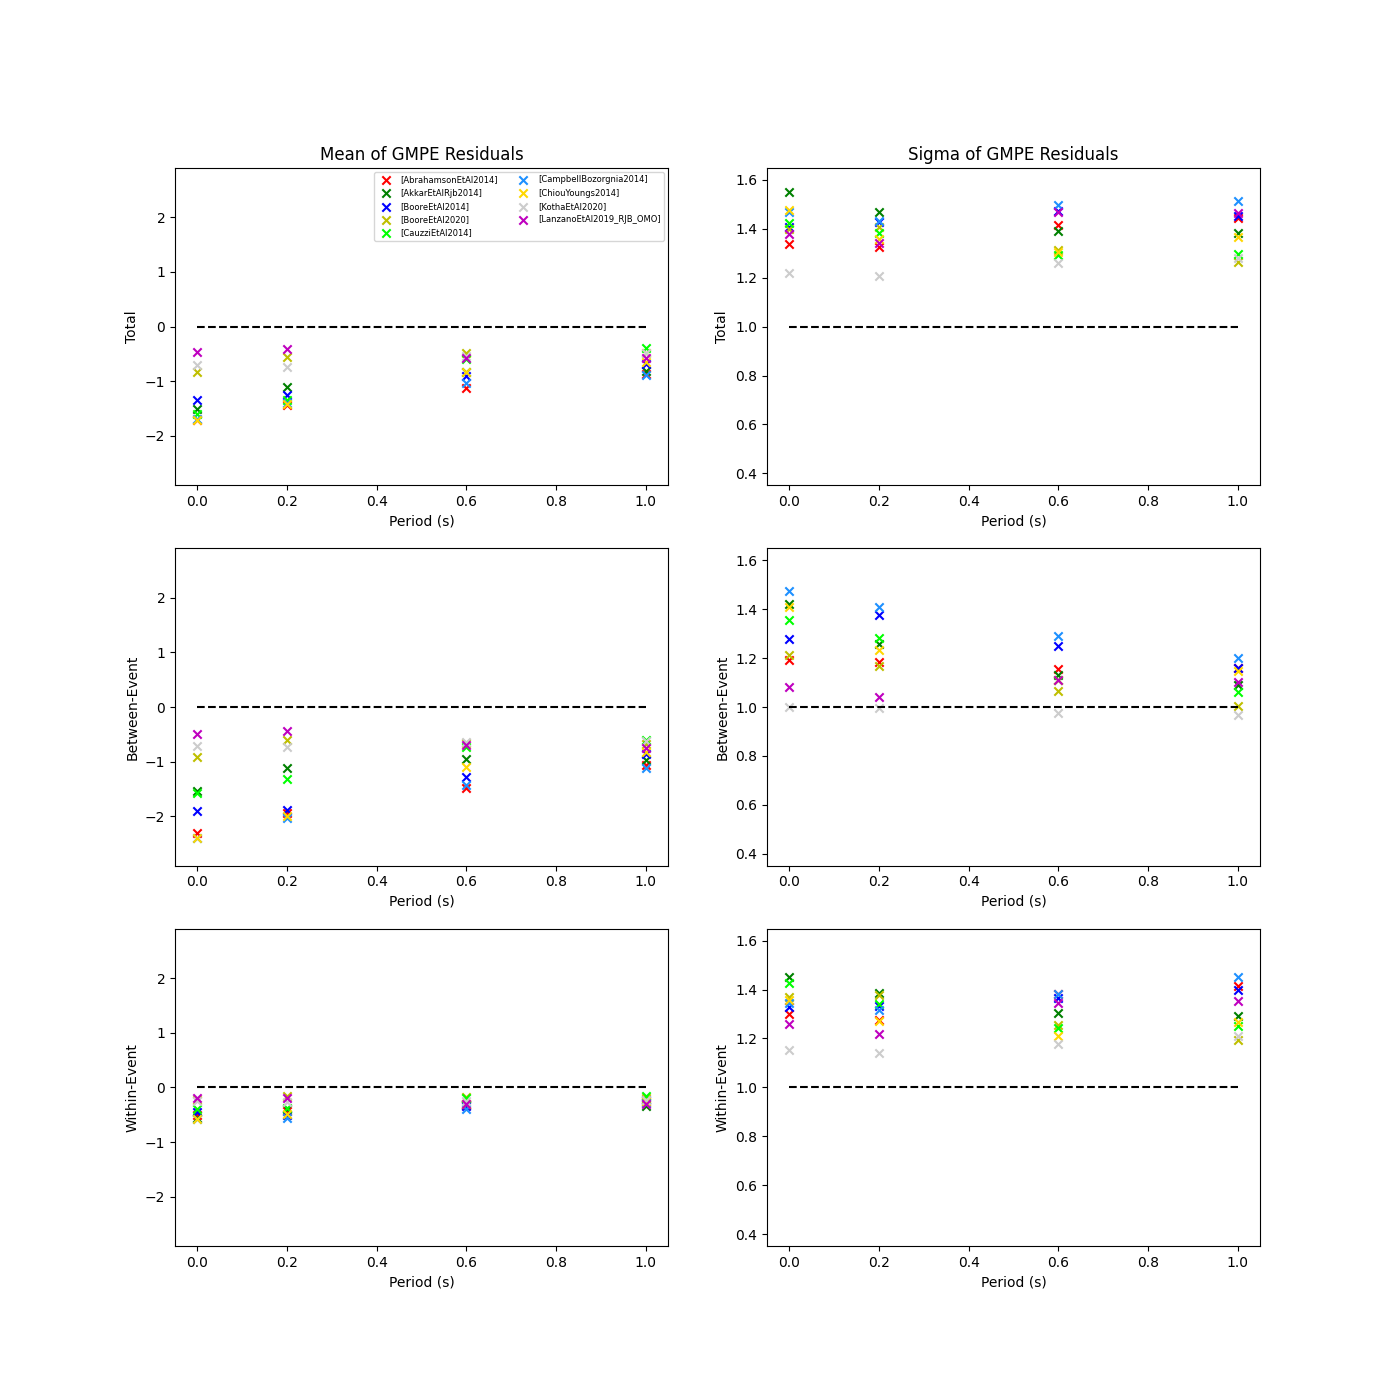
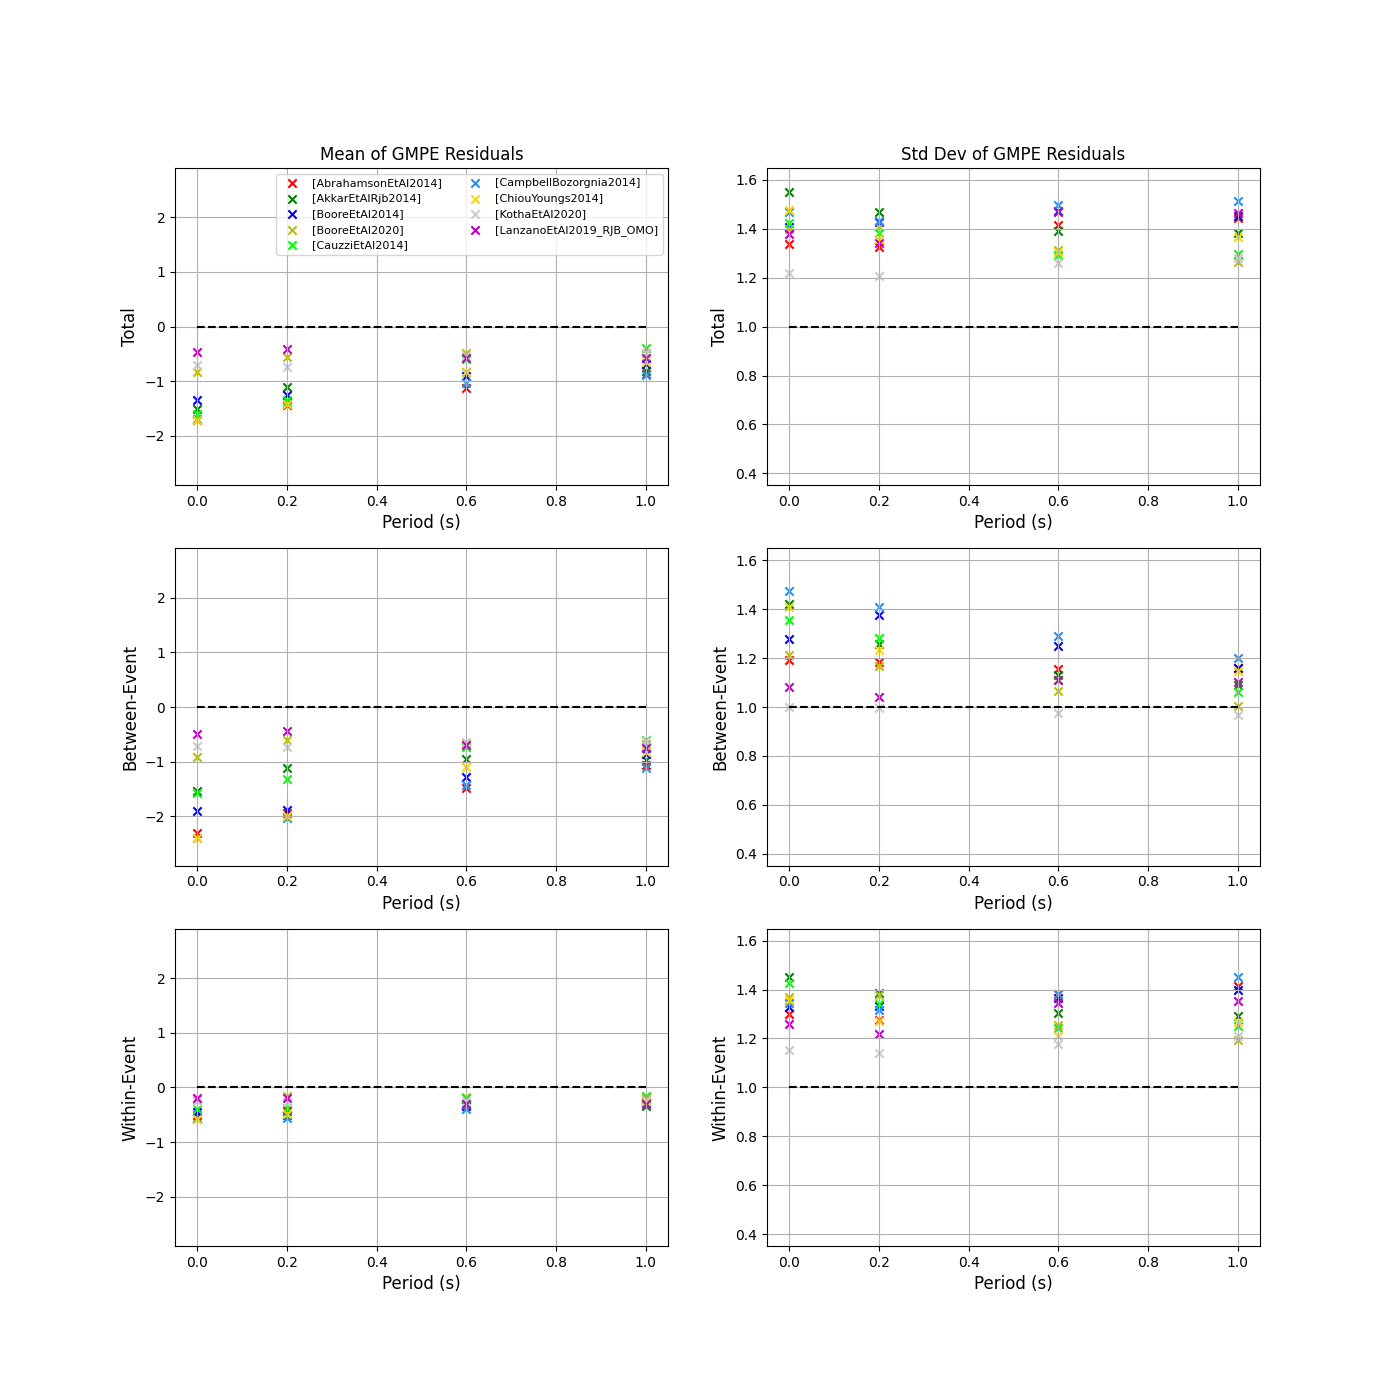
upd plot

diff --git a/openquake/smt/residuals/residual_plotter.py b/openquake/smt/residuals/residual_plotter.py
@@ -832,16 +832,16 @@ def _set_residuals_means_and_stds_plots(residuals, res_dists, imts_to_plot):
     for ax_index in range(0, 3):
         ax[ax_index, 0].set_ylim(-mean_y_bound-0.5, mean_y_bound+0.5)
         ax[ax_index, 1].set_ylim(0.9-sigma_y_bound, 1.1+sigma_y_bound)
-        ax[ax_index, 0].set_xlabel('Period (s)')
-        ax[ax_index, 1].set_xlabel('Period (s)')
+        ax[ax_index, 0].set_xlabel('Period (s)', fontsize=12)
+        ax[ax_index, 1].set_xlabel('Period (s)', fontsize=12)
         ax[ax_index, 0].set_prop_cycle(colour_cycler)
         ax[ax_index, 1].set_prop_cycle(colour_cycler)
     for ax_index in range(0, 2):
-        ax[2, ax_index].set_ylabel('Within-Event')
-        ax[1, ax_index].set_ylabel('Between-Event')
-        ax[0, ax_index].set_ylabel('Total')
-    ax[0, 0].set_title('Mean of GMPE Residuals')    
-    ax[0, 1].set_title('Std Dev of GMPE Residuals')
+        ax[2, ax_index].set_ylabel('Within-Event', fontsize=12)
+        ax[1, ax_index].set_ylabel('Between-Event', fontsize=12)
+        ax[0, ax_index].set_ylabel('Total', fontsize=12)
+    ax[0, 0].set_title('Mean of GMPE Residuals', fontsize=12)
+    ax[0, 1].set_title('Std Dev of GMPE Residuals', fontsize=12)
 
     return fig, ax
 
@@ -946,7 +946,7 @@ def plot_residual_means_and_stds_with_period(residuals, filename):
             ax[i, j].grid()
 
     # Add legend
-    ax[0, 0].legend(loc='upper right', ncol=2, fontsize=6)
+    ax[0, 0].legend(loc='upper right', ncol=2, fontsize=8)
 
     plt.savefig(filename)
     plt.close()
